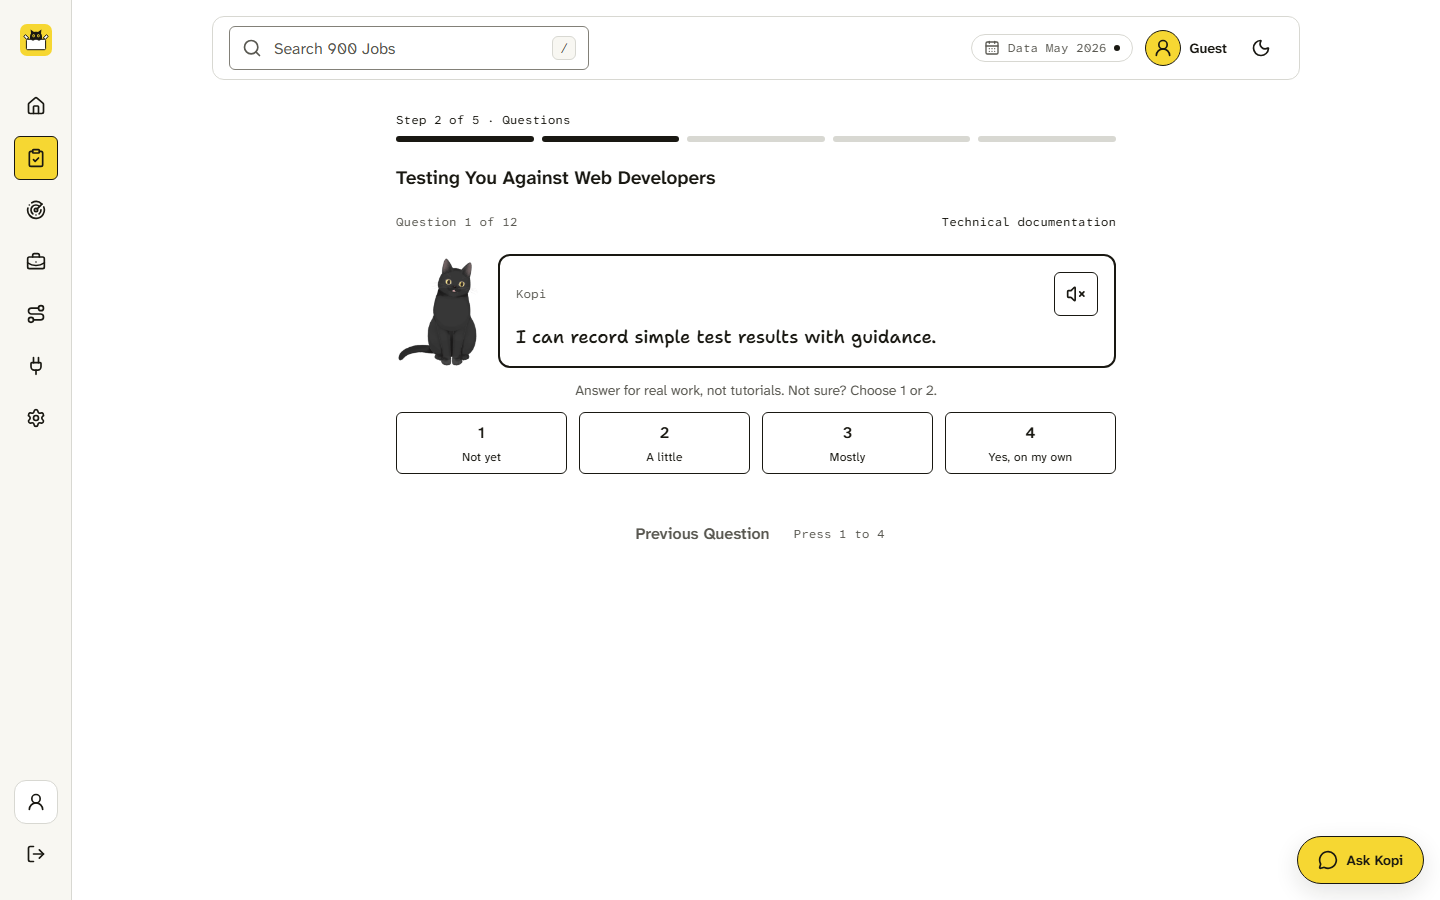
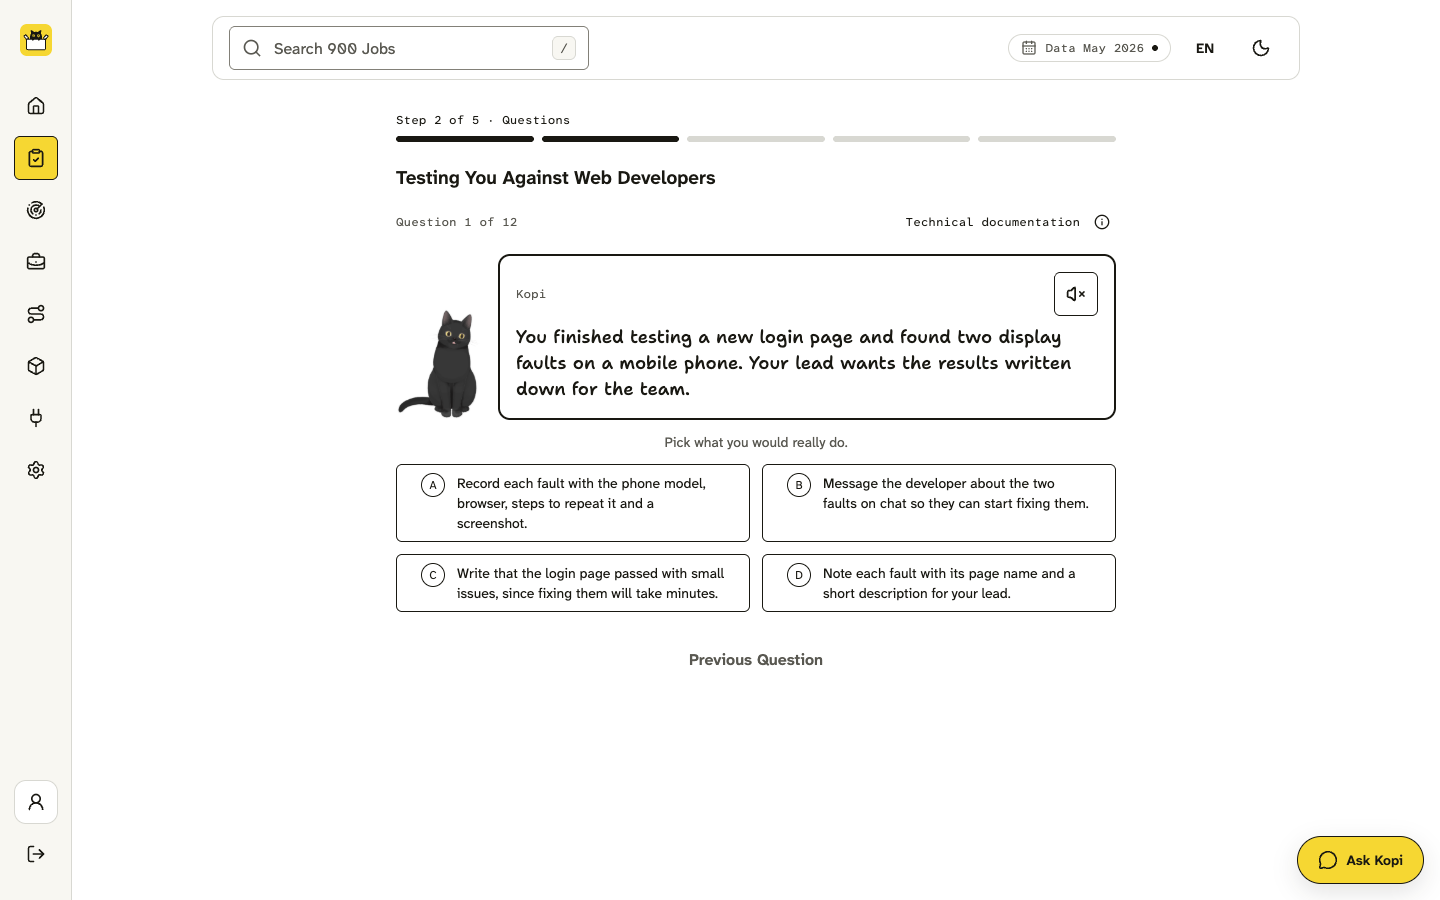
docs: refresh readme for the final

diff --git a/README.md b/README.md
@@ -19,7 +19,7 @@
     <br />
     <a href="https://kotak-alaskxntxna.replit.app"><strong>Live Demo &rarr;</strong></a>
     &middot;
-    <a href="https://youtu.be/HQgdbantbN0">Demo Video</a>
+    <a href="https://youtu.be/HQgdbantbN0">Preliminary Demo Video</a>
     &middot;
     <a href="/docs/demo/final/kotak-pitch-deck.pptx">Slide Deck</a>
     &middot;
@@ -59,6 +59,7 @@
         <li><a href="#screenshots">Screenshots</a></li>
         <li><a href="#how-it-works">How It Works</a></li>
         <li><a href="#features">Features</a></li>
+        <li><a href="#finalist-demo-and-evidence">Finalist Demo and Evidence</a></li>
         <li><a href="#architecture">Architecture</a></li>
         <li><a href="#project-structure">Project Structure</a></li>
         <li><a href="#tech-stack">Tech Stack</a></li>
@@ -90,7 +91,7 @@
 
 AI is changing Malaysian jobs faster than training can keep up: 56% of Malaysian professionals use AI tools at work, but only 26% have had formal training (Hays Asia Salary Guide 2025). Workers who wonder what AI means for their job get static skills lists with no dates, no scores and no plan. Without dated evidence, they cannot tell which skills to learn first, and may spend scarce hours on tasks AI is taking over.
 
-Kotak, Malay for box, opens the box on a job. Kopi, a cat counsellor, first asks where the user is now, what they studied and what they want. Someone with no job yet, or no role in mind, gets roles to check first, from their study and what they enjoy. Kopi then asks 12 can-do questions about their job or the role they want, each rated from 1 (Not yet) to 4 (Yes, on my own). Kotak then draws a Future Skills Radar of the job's 6 core skills, ranks matched roles and builds a dated roadmap, in about 3 minutes. Fixed rules over dated public data set every verdict, score and step, so every number cites its source. AI does the language work around those rules: a RunPod GPU batch built each job's skills and questions from its own O\*NET tasks, Claude explains verdicts and matches Malay job titles, and ElevenLabs gives Kopi a voice.
+Kotak, Malay for box, opens the box on a job. Kopi, a cat counsellor, first asks where the user is now, what they studied and what they want. Someone with no job yet, or no role in mind, gets roles to check first, from their study and what they enjoy. Kopi then asks 12 what-would-you-do questions about their job or the role they want; jobs without a complete scenario set keep can-do self-ratings. Kotak draws a Future Skills Radar of the job's core skills, ranks matched roles and builds a dated roadmap. Fixed rules over dated public data set every verdict, score and step, with sources shown beside the results. Users can switch between slow and fast AI uptake to compare estimated skill targets, fit and learning plans. AI works around those rules: a RunPod GPU batch drafted each job's skills and statements from its own O\*NET tasks, Claude explains verdicts and matches job titles, and ElevenLabs gives Kopi a voice.
 
 Built for [SDC Hackathon 2026](https://sdchack.my/), Domain 1: Aiversecity Future-Ready Workforce, on SDG 4 (target 4.4), by team T010NG: five students from APU, the University of Reading and the University of Sheffield, led by Hee Zi Jie.
 
@@ -109,14 +110,16 @@ Submission documents: the [final report](/submission/SDC2026_T010NG_Final.pdf), 
 
 ### Links
 
-| Resource          | Link                                                                                                                       |
-| ----------------- | -------------------------------------------------------------------------------------------------------------------------- |
-| GitHub Repository | <https://github.com/TolongLabs/Kotak>                                                                                      |
-| Live Demo         | <https://kotak-alaskxntxna.replit.app>, published on Replit; mirror at <https://kotak.tp073654.workers.dev>                |
-| Replit Project    | The project is private to the team's account; import this repository into Replit as in [Getting Started](#getting-started) |
-| RunPod Endpoint   | `https://api.runpod.ai/v2/5yjk19uqmrpbp7`, idle at 0 workers since the batch run                                           |
-| Slide Deck        | [`kotak-pitch-deck.pptx`](/docs/demo/final/kotak-pitch-deck.pptx), also as a [PDF](/docs/demo/final/kotak-pitch-deck.pdf)  |
-| Demo Video        | <https://youtu.be/HQgdbantbN0>, public on YouTube (5:34)                                                                   |
+| Resource          | Link                                                                                                                                                               |
+| ----------------- | ------------------------------------------------------------------------------------------------------------------------------------------------------------------ |
+| GitHub Repository | <https://github.com/TolongLabs/Kotak>                                                                                                                              |
+| Live Demo         | <https://kotak-alaskxntxna.replit.app>, published on Replit; mirror at <https://kotak.tp073654.workers.dev>                                                        |
+| Replit Project    | The project is private to the team's account; import this repository into Replit as in [Getting Started](#getting-started)                                         |
+| RunPod Endpoint   | `https://api.runpod.ai/v2/5yjk19uqmrpbp7`, idle at 0 workers since the batch run                                                                                   |
+| Slide Deck        | [`kotak-pitch-deck.pptx`](/docs/demo/final/kotak-pitch-deck.pptx), also as a [PDF](/docs/demo/final/kotak-pitch-deck.pdf)                                          |
+| Demo Video        | [Preliminary pitching video](https://youtu.be/HQgdbantbN0) (5:34); the final is demonstrated live using the [final pitch script](/docs/demo/final/pitch-script.md) |
+| Final Report      | [Phase 2 report](/submission/SDC2026_T010NG_Final.pdf), with impact measurements and verification commands                                                         |
+| Final Pitch       | [Deck PDF](/submission/SDC2026_T010NG_PitchDeck.pdf), [pitch script](/docs/demo/final/pitch-script.md) and [Q&A sheet](/docs/demo/final/qa-cheat-sheet.md)         |
 
 <p align="right"><a href="#readme-top">&uarr;</a></p>
 
@@ -156,7 +159,7 @@ Submission documents: the [final report](/submission/SDC2026_T010NG_Final.pdf), 
     <td width="50%" valign="top" align="left">
       <img src="/docs/readme/screenshots/tools.png" alt="Tools Employers Name" width="100%">
       <br />
-      <strong>Tools Employers Name</strong> · The software in demand in job postings for the role, from O*NET, beside the radar and again on the roadmap.
+      <strong>Tools Employers Name</strong> · The software named in O*NET's US job-posting data for the role, beside the radar and again on the roadmap.
     </td>
   </tr>
   <tr>
@@ -195,15 +198,15 @@ A check-up for a web developer with a computer science degree who wants to see w
 
     <img src="/docs/readme/steps/1-start.png" alt="Start: your situation, study and experience" width="100%">
 
-    Then type your job title in any language, and Kopi matches it to one of 900 O\*NET job profiles. Pick a goal: stay strong in your job, move to up to 3 roles you have in mind, see where you could go in up to 3 areas, or say you're not sure. With no job or no role in mind, Kopi suggests roles to check first, and the questions test the one you pick.
+    Then type your job title in any language, and Kopi matches it to one of 923 O\*NET job profiles. Pick a goal: stay strong in your job, move to up to 3 roles you have in mind, see where you could go in up to 3 areas, or say you're not sure. With no job or no role in mind, Kopi suggests roles to check first, and the questions test the one you pick.
 
     <img src="/docs/readme/steps/1-goal.png" alt="Start: your work, your goal and the areas to explore" width="100%">
 
-2.  **Answer 12 can-do questions.** Rate each from 1 (Not yet) to 4 (Yes, on my own), with a click or the number keys. Each question tests one of the job's 6 core skills, drafted from the job's own O\*NET tasks.
+2.  **Answer 12 job questions.** Choose how you would handle each situation, with a click or the number keys. Jobs without a complete scenario set use can-do statements rated from 1 (Not yet) to 4 (Yes, on my own). The questions assess the job's core skills, drafted from its own O\*NET tasks.
 
     <img src="/docs/readme/steps/2-questions.png" alt="Questions" width="100%">
 
-3.  **Read your Future Skills Radar.** Each skill shows your level against the level needed by May 2027, its verdict and its dated sources. The SWOT sorts the skills into strengths, weaknesses, roles within reach and tasks AI can draft. A role Malaysian law restricts, such as law or medicine, also shows the qualification it needs and the route in, beside your fit.
+3.  **Read your Future Skills Radar.** Each skill shows your level against the estimated level needed by May 2027, its verdict and its dated sources. Switch between slow and fast AI uptake to compare targets. The SWOT sorts the skills into strengths, weaknesses, roles within reach and tasks AI can draft. Where available, SkillsFuture Singapore adds regional skill names and expected levels, labelled auto-generated. A role Malaysian law restricts, such as law or medicine, also shows the qualification it needs and the route in, beside your fit.
 
     <img src="/docs/readme/steps/3-radar.png" alt="Radar" width="100%">
 
@@ -211,7 +214,7 @@ A check-up for a web developer with a computer science degree who wants to see w
 
     <img src="/docs/readme/steps/4-roles.png" alt="Roles" width="100%">
 
-5.  **Follow your roadmap.** Ordered steps for the role you picked, running at least 12 weeks and on to the week you reach 80% fit, here Data Scientists, each with its hours, one free resource and its SDG targets, plus the software employers name for the role. That week moves with your weekly hours (1 to 20), and the plan exports as a PDF.
+5.  **Follow your roadmap.** Ordered steps for the role you picked, here Data Scientists, with estimated hours, learning links and SDG targets, plus the software employers name for the role. The view spans at least 12 weeks and extends to the estimated 80% fit milestone when the plan reaches it; otherwise it shows the available plan and says the threshold is unmet. Dates move with your weekly hours (1 to 20), and the plan exports as a PDF. A resource labelled Search is a way to find learning material, not a checked course. Upload completion evidence for a step and Kopi returns pass, fail or unclear; only a pass marks it done.
 
     <img src="/docs/readme/steps/5-roadmap.png" alt="Roadmap" width="100%">
 
@@ -224,15 +227,33 @@ A check-up for a web developer with a computer science degree who wants to see w
 ### Features
 
 - **Skills profile intake** — where you are now, your study and experience, a job title in any language, a goal (stay strong, move to up to 3 roles, explore by area, or not sure) and 12 what-would-you-do questions, worded for the user's years of work where a job keeps can-do statements. Without a job or a role in mind, Kotak suggests roles first, and a profession Malaysian law restricts, such as law or medicine, shows the qualification it needs beside the user's fit, to help them decide whether to pursue it.
-- **AI-trend signal layer** — dated Anthropic Economic Index snapshots for Malaysia (April and May 2026) and DOSM Job Market Insights, refreshed weekly. A Before/After switch shows what changed when May's data arrived.
+- **AI-trend signal layer** — dated Anthropic Economic Index snapshots for Malaysia (April and May 2026) and DOSM Job Market Insights. A Before/After switch shows what changed when May's data arrived. A weekly refresh workflow checks for new releases; it can also be run locally while GitHub Actions minutes are unavailable.
 - **Future-role matching** — up to 6 roles from the user's targets, areas, field of study and O\*NET's related list, each with a fit score, the maths behind it, the named gaps and why it's there.
 - **Malaysian job ads** — for each role, the JobStreet ads Kotak's admins reviewed: active ads, an estimate of its JobStreet ads and how it ranks by them, advertised pay in ringgit, where the jobs are, the benefits employers name, and the tools, languages and AI skills they ask for. Shown beside the verdicts, which it never sets.
 - **3D space** — all 923 jobs at `/app/space`, placed by the user's fit and drawn with each skill's AI use, 12-month change (est.), in both AI futures and both data months, with every number in a table one key away. `/app/space?job=<O*NET code>` opens it on one job, and Look Around shows it before the check-up, placed by O\*NET Job Zone.
-- **Reskilling pathway** — an interactive roadmap with ordered steps, hours, one free resource per step and a finish date that moves with the user's weekly hours.
+- **Reskilling pathway** — an interactive roadmap with ordered steps, estimated hours, learning resources or labelled searches, and dates that move with the user's weekly hours, situation, experience and qualification. Completion evidence is checked by Claude; the upload is not stored by Kotak.
+- **SkillsFuture Singapore context** — regional skill names and proficiency levels beside the radar and roadmap where links are available. These AI-generated links have not been individually reviewed, and never set verdicts or fit scores. Provenance and limits are in the [data card](/docs/data-card.md).
 - **SDG mapping** — every skill carries SDG targets, every job shows the goals its work serves, and the roadmap highlights steps by goal.
-- **Handling uncertainty** — every target is labelled an estimate, Split shows slow and fast AI-uptake futures, and Unknown marks thin data.
+- **Handling uncertainty** — a shared slow/fast AI-uptake control on Radar, Roles, Roadmap and job pages recalculates estimated targets, fit and plans. The 3D space compares the same futures. Split marks disagreeing outcomes, and Unknown marks thin data.
 - **Ask Kopi and MCP** — a chat agent answers through 8 read-only tools over the same rules, and other assistants can use the same tools at `/api/mcp`.
 - **Three languages** — English, Bahasa Malaysia and Chinese behind one switch in the top bar, with Kopi answering in the language you pick. Every job title is translated, and so are the skills and questions of 18 jobs, the demo roles among them; a job still partly in English says so. Kopi's voice speaks English only.
+
+<p align="right"><a href="#readme-top">&uarr;</a></p>
+
+### Finalist Demo and Evidence
+
+The [Domain 1 finalist guide](/docs/sources/drive.google.com/domain-1-aiversecity-finalist-guide.md) asks for six must-haves in one live journey. Start a synthetic profile in the [live demo](https://kotak-alaskxntxna.replit.app), complete the questions, then open Radar, Roles and Roadmap: the profile drives the results, each verdict names its source and date, fit scores show their maths, and SDG targets explain the link to the chosen path. Open a learning link and check whether it is a resource or a labelled search. Switch slow/fast AI uptake to compare the estimates, then use What Changed to compare April and May 2026. The [final pitch script](/docs/demo/final/pitch-script.md) and [Q&A sheet](/docs/demo/final/qa-cheat-sheet.md) guide the live presentation; the linked video records the preliminary version.
+
+To reproduce the change test and fairness evidence after installation:
+
+```bash
+bun run build:data
+bun scripts/sdk-checkup.ts
+bun scripts/scan-verdict-flips.ts
+bun test packages/sdk/src/fairness.test.ts
+```
+
+The [final report](/submission/SDC2026_T010NG_Final.pdf) records the baseline, measurements and limits: the April-to-May swap changes at least one verdict for all 923 jobs, and 30 paired profiles produce identical verdicts and fit when situation, qualification or experience changes. These are checks of the prototype, not measured employment or learning outcomes. The [data card](/docs/data-card.md) explains borrowed signals and unreviewed mappings; the [cost card](/docs/cost-card.md) gives measured API costs and scale assumptions. The guest session is saved in browser storage; AI features send the inputs needed for their replies to the API. Certificate checks send the uploaded file to Claude for that request without storing it in Kotak. The [technical design](/docs/TRD.md) documents data handling and deployment limits.
 
 <p align="right"><a href="#readme-top">&uarr;</a></p>
 
@@ -244,7 +265,7 @@ A check-up for a web developer with a computer science degree who wants to see w
   <img src="/docs/readme/architecture-light.svg" alt="Kotak architecture">
 </picture>
 
-The rules run in the browser. `@kotak/sdk` computes every verdict, score and roadmap step with the [rules](/packages/shared/src/rules/) over a static bundle of dated snapshots, so a check-up needs no server. The Hono API does the language work: Claude matches titles and writes explanations, which a [verifier](/apps/api/src/ai/verifier.ts) checks against the rules' verdict and sources, ElevenLabs speaks Kopi's lines, and Neon Postgres holds the national view, the JobStreet scraper's runs and the reviewed job ads behind the job-ad market. MCP clients reach the same tools at `/api/mcp`. Before deploy, Bun scripts build the bundle from public data, and a RunPod GPU batch drafted each job's skills once. The [PRD](/docs/PRD.md) and the [technical design](/docs/TRD.md) explain each part.
+The rules run in the browser. `@kotak/sdk` computes every verdict, score and roadmap step with the [rules](/packages/shared/src/rules/) over a static bundle of dated snapshots, so a check-up needs no server. The Hono API handles AI features: Claude matches titles, checks completion evidence and writes explanations, which a [verifier](/apps/api/src/ai/verifier.ts) checks against the rules' verdict and sources. ElevenLabs speaks Kopi's lines, and Neon Postgres holds the national view, the JobStreet scraper's runs and the reviewed job ads behind the job-ad market. MCP clients reach the same tools at `/api/mcp`. Before deploy, Bun scripts build the bundle from public data, and a RunPod GPU batch drafted each job's skills once. The [PRD](/docs/PRD.md) and the [technical design](/docs/TRD.md) explain each part.
 
 Made with [Archify](https://github.com/tt-a1i/archify) from [`architecture.json`](/docs/readme/architecture.json).
 
@@ -255,7 +276,7 @@ Made with [Archify](https://github.com/tt-a1i/archify) from [`architecture.json`
 ```text
 .
 ├── apps/
-│   ├── api/            # Hono API: title match, explanations, voice, Ask Kopi and MCP
+│   ├── api/            # Hono API: AI, completion evidence, voice, Ask Kopi and MCP
 │   └── web/            # React app, served with the static data bundle
 ├── packages/
 │   ├── shared/         # Rules, verdicts, roadmap and Zod schemas
@@ -273,7 +294,7 @@ Made with [Archify](https://github.com/tt-a1i/archify) from [`architecture.json`
 │   └── generated/      # Each job's AI-drafted skills and questions
 ├── runpod/             # RunPod endpoint settings and example requests
 ├── docs/               # PRD, technical design, declaration, research and README images
-├── submission/         # Submission template and the Replit and RunPod proofs of use
+├── submission/         # Final report, pitch deck, PRD, declaration and proofs of use
 ├── .env.example        # Environment variables
 ├── .replit             # Replit run configuration
 ├── wrangler.jsonc      # Cloudflare Workers configuration
@@ -306,11 +327,11 @@ No setup is needed to try Kotak: open the [live demo](https://kotak-alaskxntxna.
 
 - [Bun](https://bun.sh) 1.3 or later, for a local run.
 - Optional keys, listed in [`.env.example`](/.env.example):
-  - `ANTHROPIC_API_KEY` for job-title matching, explanations and Ask Kopi
+  - `ANTHROPIC_API_KEY` for job-title matching, explanations, Ask Kopi and completion evidence checks
   - `ELEVENLABS_API_KEY` for Kopi's voice
   - `DATABASE_URL`, a Neon Postgres URL, for the job-ad cards, the admin page and the national view's database
 
-The app runs without keys too: exact job titles still match, explanations fall back to fixed templates, Ask Kopi says it can't chat, Kopi's lines show as text, the job-ad cards stay hidden and the national view serves its built-in sample rows. The RunPod, Cloudflare and scraper settings in `.env.example` are only for the corner batch, the deploy and the JobStreet scraper.
+The app runs without keys too: exact job titles still match, explanations fall back to fixed templates, Ask Kopi says it can't chat, Kopi's lines show as text, completion evidence cannot be verified, the job-ad cards stay hidden and the national view serves its built-in sample rows. The RunPod, Cloudflare and scraper settings in `.env.example` are only for the corner batch, the deploy and the JobStreet scraper.
 
 <p align="right"><a href="#readme-top">&uarr;</a></p>
 
@@ -422,9 +443,9 @@ curl https://api.runpod.ai/v2/$RUNPOD_ENDPOINT_ID/openai/v1/chat/completions \
 
 ## Challenges and Learnings
 
-- **Thin data.** With only April's AI-use data, every skill read Unknown. Kotak shows Unknown rather than guess, and May's data then flipped six verdicts. Honest uncertainty proved more useful than a confident guess.
+- **Thin data.** With only April's AI-use data, every skill read Unknown. Kotak shows Unknown rather than guess, and May's data then changed all six verdicts on each of the three demo roles. Honest uncertainty proved more useful than a confident guess.
 - **Keeping AI out of the verdicts.** An explanation from a language model can drift from the rule it explains. A check now rejects any explanation that changes a verdict, and a template answers when Claude cannot.
-- **A plan that reaches its goal.** An early roadmap finished each skill to Advanced before starting the next, so a test user's 12-week plan stopped at 47% fit. Steps now go in order of fit gained per hour, and the plan runs until 80% fit; every simulated plan reaches it.
+- **A plan with a visible goal.** An early roadmap finished each skill to Advanced before starting the next, so a test user's 12-week plan stopped at 47% fit. Steps now go in order of fit gained per hour, and the view extends to the estimated 80% fit milestone when reachable. The estimate describes progress within Kotak's model.
 - **Real hiring data.** Job ads change daily and pages fail. The collector runs from a queue that resumes after a crash, in an isolated runner with a restricted database role, and a person checks the ads Claude sorts.
 - **923 jobs at once.** One RunPod batch drafted every job's skills and questions in 13 minutes with none failed, because a JSON schema shaped each answer and a validator rejected any task from another job.
 
@@ -436,7 +457,7 @@ curl https://api.runpod.ai/v2/$RUNPOD_ENDPOINT_ID/openai/v1/chat/completions \
 
 - [ ] Kotak Team: a skill-gap view for an employer's whole team, and who to train first
 - [ ] Bahasa Malaysia and Chinese skills and questions for every job, beyond the 18 translated so far (#449)
-- [ ] Slow and fast AI-uptake scenarios side by side on the radar (the engine already holds both)
+- [ ] A side-by-side radar comparison of slow and fast AI uptake, beyond today's shared scenario switch
 - [ ] Checked free and HRD Corp-claimable courses for each step, beyond today's search suggestions
 - [ ] A notice when new monthly data moves a user's plan
 - [ ] A pilot with HR teams at levy-paying employers, measuring steps done and fit gained
@@ -472,7 +493,7 @@ Made with [contrib.rocks](https://contrib.rocks).
 - [x] Demo video link added
 - [x] Replit used, with proof of use in `submission/`
 - [x] RunPod used, with proof of use in `submission/`
-- [x] Submission template completed in `submission/`
+- [x] Phase 1 proposal completed in `submission/`
 - [x] Phase 2 final report completed in `submission/`
 - [x] Pitch deck in `submission/`, as `.pptx` and PDF
 - [x] Technical and tools declaration completed in `submission/`
